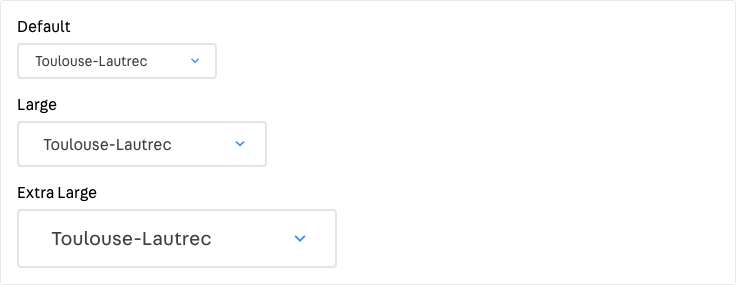
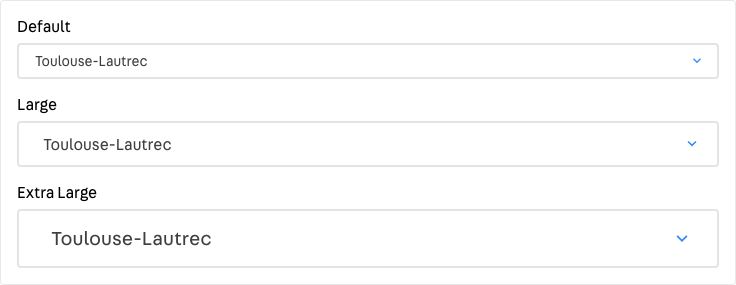
Remove width and block props from Dropdown

diff --git a/src/components/Dropdown/index.js b/src/components/Dropdown/index.js
@@ -66,10 +66,7 @@ class Dropdown extends Component {
     const {
       label,
       id,
-      short,
-      long,
       size,
-      block,
       disabled,
       options,
       error,
@@ -77,12 +74,6 @@ class Dropdown extends Component {
       helpText,
     } = this.props
     const { open } = this.state
-
-    if (short && long) {
-      throw new Error(
-        'Dropdown component cannot be short AND long at the same time'
-      )
-    }
 
     let width
     let maxHeight
@@ -92,8 +83,6 @@ class Dropdown extends Component {
     let containerClasses = 'br2 bw1 '
     let optionsClasses = 'absolute bl br bb bw1 br2 br--bottom bg-white flex-column z-max overflow-y-auto '
     let optionClasses = 'w-100 pointer flex bg-white hover-bg-near-white near-black tl bb-0 bl-0 br-0 bt b--near-white '
-
-    if (block) width = '100%'
 
     const valueLabel = this.getValueLabel()
     const showCaption = !valueLabel
@@ -107,45 +96,18 @@ class Dropdown extends Component {
         optionClasses += 'f5 pv4 ph6 '
         maxHeight = '200px'
         iconSize = 18
-        if (!block) {
-          if (short) {
-            width = '100px'
-          } else if (long) {
-            width = '420px'
-          } else {
-            width = '250px'
-          }
-        }
         break
       case 'x-large':
         classes += 'f4 pv5 pl7 pr6 '
         optionClasses += 'f4 pv5 ph7 '
         maxHeight = '260px'
         iconSize = 22
-        if (!block) {
-          if (short) {
-            width = '150px'
-          } else if (long) {
-            width = '520px'
-          } else {
-            width = '320px'
-          }
-        }
         break
       default:
         classes += 'f6 pv3 pl5 pr4 '
         optionClasses += 'f6 pv3 ph5 '
         maxHeight = '150px'
         iconSize = 16
-        if (!block) {
-          if (short) {
-            width = '70px'
-          } else if (long) {
-            width = '350px'
-          } else {
-            width = '200px'
-          }
-        }
         break
     }
 
@@ -177,10 +139,10 @@ class Dropdown extends Component {
     }
 
     return (
-      <div ref={this.setWrapperRef} className={block ? 'db' : 'dib'}>
+      <div ref={this.setWrapperRef}>
         <label>
           {label &&
-            <span className={`dib mb3 ${block ? 'w-100' : ''}`}>
+            <span className="dib mb3 w-100">
               {label}
             </span>}
           <div className={containerClasses} style={containerStyle}>
@@ -232,8 +194,6 @@ Dropdown.defaultProps = {
 }
 
 Dropdown.propTypes = {
-  /** Block style */
-  block: PropTypes.bool,
   /** Error highlight */
   error: PropTypes.bool,
   /** Error message */
@@ -244,10 +204,6 @@ Dropdown.propTypes = {
   label: PropTypes.string,
   /** Dropdown size */
   size: PropTypes.oneOf(['regular', 'large', 'x-large']),
-  /** Long style (width) */
-  long: PropTypes.bool,
-  /** Short style (width) */
-  short: PropTypes.bool,
   /** Dropdown options list */
   options: PropTypes.arrayOf(
     PropTypes.shape({

diff --git a/src/components/Dropdown/README.md b/src/components/Dropdown/README.md
@@ -50,93 +50,9 @@ Sizes
 </div>
 ```
 
-Widths
-```js
-<div>
-  <div className="mb5">
-    <Dropdown
-      label="Short"
-      short
-      options={[
-        {value: '10', label: '10'},
-        {value: '11', label: '11'},
-        {value: '12', label: '12'}
-      ]}
-      value="10"
-      onChange={() => {}} />
-  </div>
-
-  <div className="mb5">
-    <Dropdown
-      label="Default"
-      options={[
-        {value: 'chagall', label: 'Chagall'},
-        {value: 'dali', label: 'Dali'},
-        {value: 'goya', label: 'Goya'},
-        {value: 'monet', label: 'Monet'},
-        {value: 'picasso', label: 'Picasso'},
-        {value: 'tolouseLautrec', label: 'Toulouse-Lautrec'}
-      ]}
-      value="tolouseLautrec"
-      onChange={() => {}} />
-  </div>
-
-  <div>
-    <Dropdown
-      label="Long"
-      long
-      options={[
-        {value: 'address01', label: '512 Academy Ave, Sanger, CA 93657, USA'},
-        {value: 'address02', label: '765 N Temperance Ave, Clovis, CA 93611, USA'},
-        {value: 'address03', label: '1845 Herndon Ave F, Clovis, CA 93611, USA'},
-      ]}
-      value="address03"
-      onChange={() => {}} />
-  </div>
-</div>
-```
-
-Box types
-
-```js
-<div>
-  <div className="mb5">
-    <Dropdown
-      label="Default"
-      size="x-large"
-      options={[
-        {value: 'chagall', label: 'Chagall'},
-        {value: 'dali', label: 'Dali'},
-        {value: 'goya', label: 'Goya'},
-        {value: 'monet', label: 'Monet'},
-        {value: 'picasso', label: 'Picasso'},
-        {value: 'tolouseLautrec', label: 'Toulouse-Lautrec'}
-      ]}
-      value="tolouseLautrec"
-      onChange={() => {}} />
-  </div>
-  <div>
-    <Dropdown
-      label="Block"
-      block
-      size="x-large"
-      options={[
-        {value: 'chagall', label: 'Chagall'},
-        {value: 'dali', label: 'Dali'},
-        {value: 'goya', label: 'Goya'},
-        {value: 'monet', label: 'Monet'},
-        {value: 'picasso', label: 'Picasso'},
-        {value: 'tolouseLautrec', label: 'Toulouse-Lautrec'}
-      ]}
-      value="tolouseLautrec"
-      onChange={() => {}} />
-  </div>
-</div>
-```
-
 Variations
 ```js
-<div>
+<div className="w-40">
   <div className="mb5">
     <Dropdown
       label="Caption"
@@ -218,7 +134,7 @@ class Example extends React.Component {
 
   render() {
     return (
-      <div>
+      <div className="w-40">
         <div>
           <Dropdown
             label="Painter"

diff --git a/CHANGELOG.md b/CHANGELOG.md
@@ -7,6 +7,6 @@ and this project adheres to [Semantic Versioning](http://semver.org/spec/v2.0.0.
 
 ## [Unreleased]
 ### Changed
-- Input prop `large` and `xLarge` now are `size="large"` and `size="x-large"``.
-- Input prop `block` was removed. Input is always block.
-- Input prop `short` and `long` was removed. Input width should be defined by its parent.
+- Input props `large` and `xLarge` are now `size="large"` and `size="x-large"``.
+- Dropdown and Input props `short` and `long` were removed. Their widths should be defined by their parents.
+- Dropdown and Input prop `block` was removed. They are always block.
